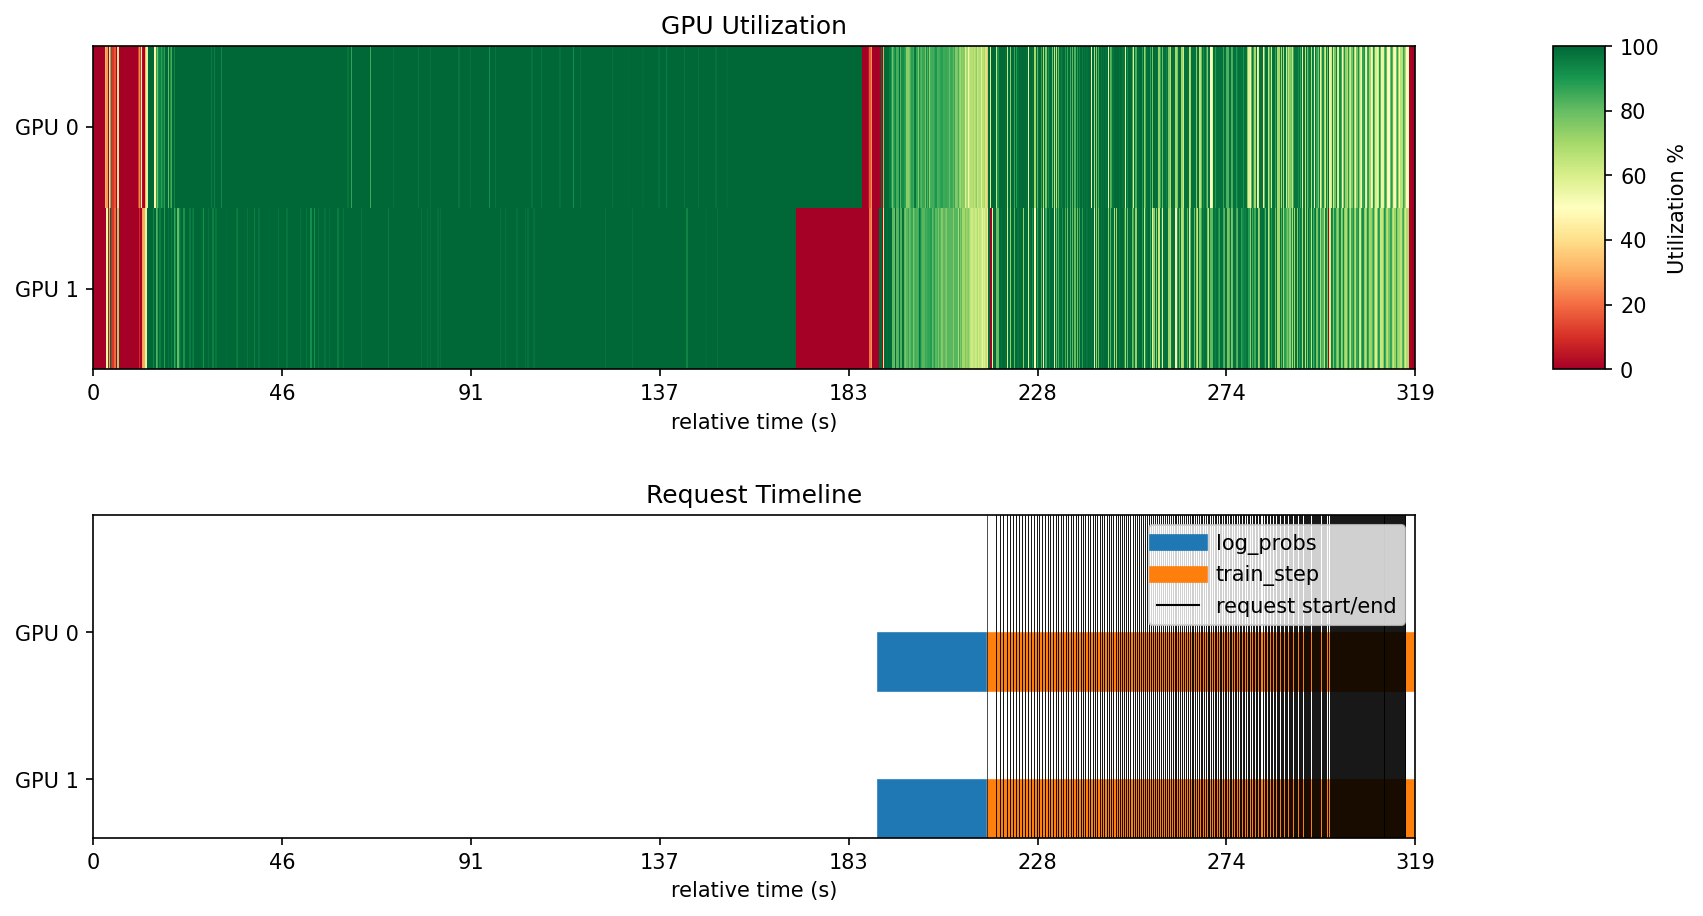
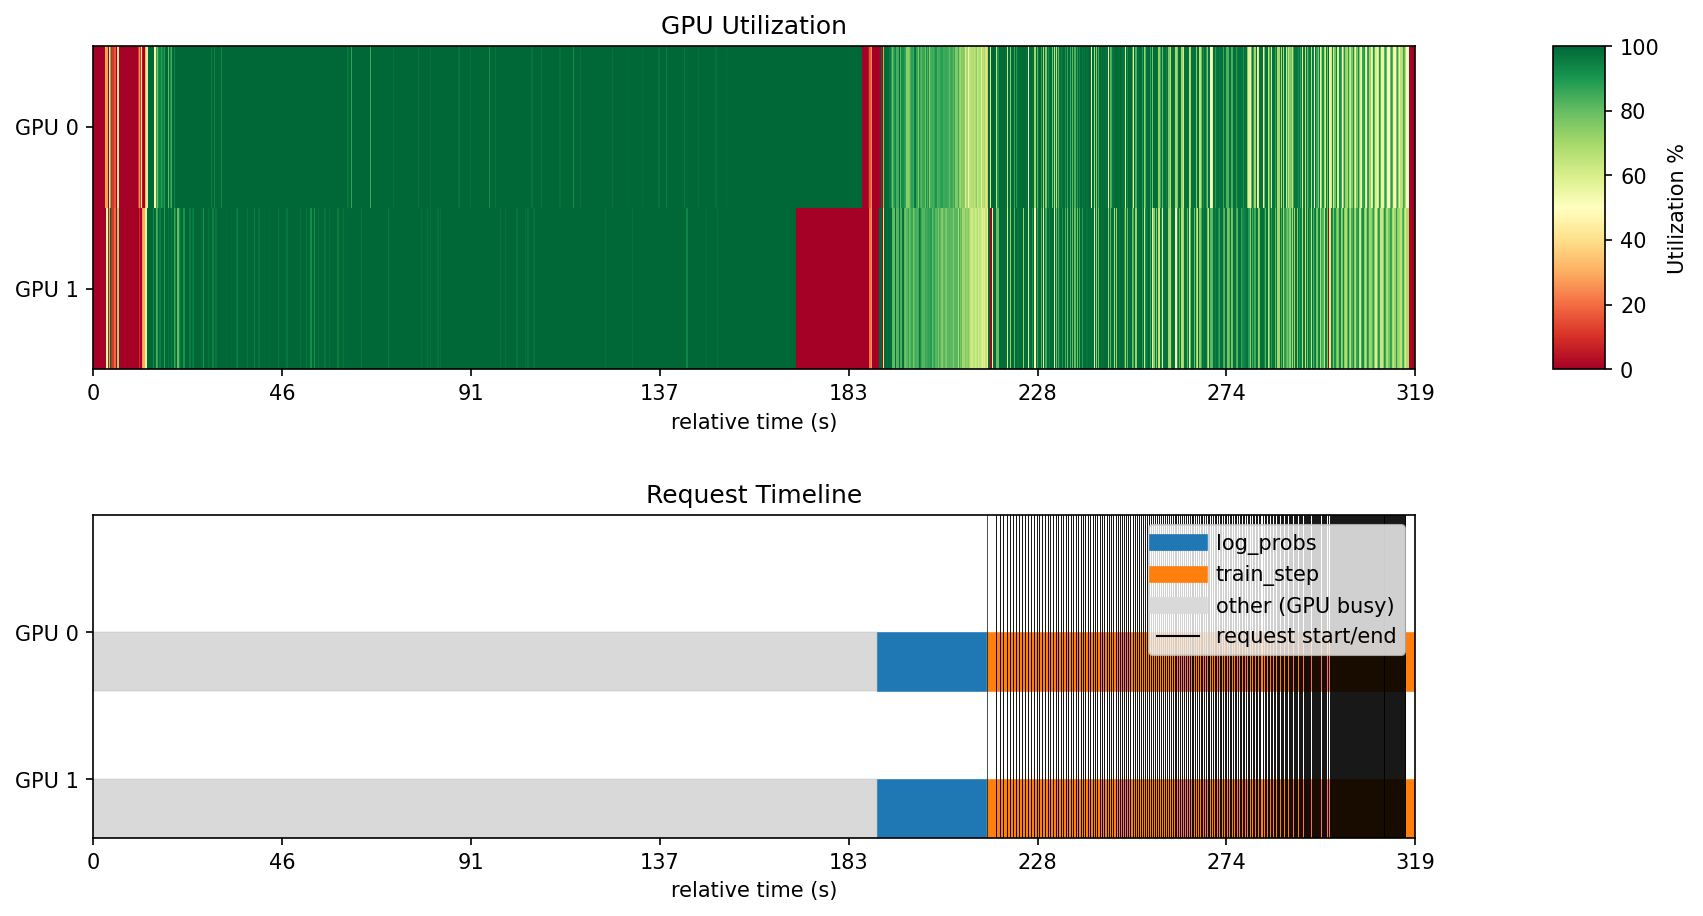
update profile

Changed region(s): [[0.0311, 0.6725, 0.5291, 0.7642], [0.0311, 0.8253, 0.5291, 0.917], [0.6536, 0.6419, 0.8403, 0.7336]]

diff --git a/plot_gpu_profile.py b/plot_gpu_profile.py
@@ -27,7 +27,7 @@ _DEFAULT_LOG_DIR = _REPO_ROOT / "log"
 
 
 def load_profile_record(jsonl_path: Path):
-    """Load the first record that has both utilization samples and request times."""
+    """Load the first record that has utilization samples and (optionally) request times. Rollout-only records have utilization but no request_times."""
     records = []
     with open(jsonl_path) as f:
         for line in f:
@@ -42,12 +42,12 @@ def load_profile_record(jsonl_path: Path):
         samples = rec["gpu_profile/gpu_utilization_samples"]
         if not samples:
             continue
-        # Find request_times for any GPU
+        # Require request_times unless this is a rollout-window-only record
         gpu_request_keys = [k for k in rec if re.match(r"gpu_profile/gpu\d+_request_times", k)]
-        if not gpu_request_keys:
+        if not gpu_request_keys and not rec.get("gpu_profile/rollout_window_only"):
             continue
         return rec
-    raise ValueError(f"No record with gpu_utilization_samples and gpu*_request_times in {jsonl_path}")
+    raise ValueError(f"No record with gpu_utilization_samples (and gpu*_request_times or rollout_window_only) in {jsonl_path}")
 
 
 def get_num_gpus(rec: dict) -> int:
@@ -125,12 +125,79 @@ EVENT_CATEGORIES = [
     ("unified_times", "unified", "tab:green"),
 ]
 
+OTHER_LABEL = "other (GPU busy)"
+OTHER_COLOR = (0.85, 0.85, 0.85)  # light gray
+
+
+def _merge_intervals(intervals: list[tuple[float, float]]) -> list[tuple[float, float]]:
+    """Merge overlapping (start, end) intervals."""
+    if not intervals:
+        return []
+    sorted_i = sorted(intervals, key=lambda x: x[0])
+    merged = [list(sorted_i[0])]
+    for s, e in sorted_i[1:]:
+        if s <= merged[-1][1]:
+            merged[-1][1] = max(merged[-1][1], e)
+        else:
+            merged.append([s, e])
+    return [tuple(m) for m in merged]
+
+
+def _gaps_in_range(merged: list[tuple[float, float]], x_min: float, x_max: float) -> list[tuple[float, float]]:
+    """Return (start, end) gaps inside [x_min, x_max] not covered by merged intervals."""
+    out = []
+    current = x_min
+    for s, e in merged:
+        if e <= current:
+            continue
+        if s > current:
+            out.append((current, min(s, x_max)))
+        current = max(current, e)
+        if current >= x_max:
+            break
+    if current < x_max:
+        out.append((current, x_max))
+    return out
+
 
 def draw_request_timeline_ax(rec: dict, t0: float, ax: plt.Axes, x_range: tuple[float, float] | None) -> None:
-    """Draw request timeline on given axes. Uses x_range if provided. Draws all event categories (ref_log_probs, log_probs, train_step) with different colors."""
+    """Draw request timeline on given axes. Uses x_range if provided. Draws all event categories (ref_log_probs, log_probs, train_step) with different colors. Fills time not attributed to any event as 'other (GPU busy)' when GPU utilization is present."""
     num_gpus = get_num_gpus(rec)
     if num_gpus == 0:
         return
+
+    x_min, x_max = (0.0, 0.0)
+    if x_range is not None:
+        x_min, x_max = x_range
+
+    # Per-GPU: collect all known event intervals (relative time)
+    intervals_per_gpu: list[list[tuple[float, float]]] = [[] for _ in range(num_gpus)]
+    for key_suffix, _label, _color in EVENT_CATEGORIES:
+        for gpu in range(num_gpus):
+            key = f"gpu_profile/gpu{gpu}_{key_suffix}"
+            if key not in rec:
+                continue
+            for start, end in rec[key]:
+                start_rel = normalize_time(start, t0)
+                end_rel = normalize_time(end, t0)
+                intervals_per_gpu[gpu].append((start_rel, end_rel))
+
+    # Draw "other" (unaccounted) segments first so they sit behind the labeled events
+    legend_used_other = False
+    if x_range is not None and x_max > x_min:
+        bar_height = 0.4
+        for gpu in range(num_gpus):
+            merged = _merge_intervals(intervals_per_gpu[gpu])
+            gaps = _gaps_in_range(merged, x_min, x_max)
+            y_center = num_gpus - 1 - gpu
+            for start_rel, end_rel in gaps:
+                if end_rel - start_rel < 0.01:
+                    continue
+                legend_used_other = True
+                ax.barh(
+                    y_center, end_rel - start_rel, left=start_rel, height=bar_height,
+                    color=OTHER_COLOR, edgecolor=(0.7, 0.7, 0.7), linewidth=0.2,
+                )
 
     all_ends = []
     legend_used = set()
@@ -182,6 +249,10 @@ def draw_request_timeline_ax(rec: dict, t0: float, ax: plt.Axes, x_range: tuple[
         for (key_suffix, label, color) in EVENT_CATEGORIES
         if (label, color) in legend_used
     ]
+    if legend_used_other:
+        legend_elements.append(
+            Line2D([0], [0], color=OTHER_COLOR, linewidth=8, label=OTHER_LABEL),
+        )
     legend_elements.append(
         Line2D([0], [0], color="black", linewidth=1, linestyle="-", label="request start/end"),
     )

diff --git a/slime/utils/profiler.py b/slime/utils/profiler.py
@@ -173,8 +173,10 @@ def log_request_profile_metrics(
     request_times_per_rank: list[list[RequestTime]] | None = None,
     gpu_utilization_samples: list[tuple[float, list[int]]] | None = None,
     event_times_per_rank_by_type: dict[str, list[list[RequestTime]]] | None = None,
+    rollout_time_window: tuple[float, float] | None = None,
 ) -> None:
-    """Log request-profile metrics: per-request (start_time, end_time) per GPU, request counts, optional GPU utilization, and optional per-event-type times (e.g. log_probs, ref_log_probs)."""
+    """Log request-profile metrics: per-request (start_time, end_time) per GPU, request counts, optional GPU utilization, and optional per-event-type times (e.g. log_probs, ref_log_probs).
+    When rollout_time_window (start_sec, end_sec) is provided, only GPU utilization samples within that window are included (for SGLang rollout-only profiling)."""
     from slime.utils import logging_utils
 
     step_key = "rollout/step"
@@ -182,6 +184,8 @@ def log_request_profile_metrics(
         "gpu_profile/interval_ms": 200,
         step_key: step_key_value,
     }
+    if rollout_time_window is not None:
+        log_dict["gpu_profile/rollout_window_only"] = True
     if request_count_per_rank is not None:
         for rank, count in enumerate(request_count_per_rank):
             log_dict[f"request_profile/requests_gpu{rank}"] = count
@@ -201,10 +205,14 @@ def log_request_profile_metrics(
                 if times:
                     log_dict[f"gpu_profile/gpu{rank}_{key_suffix}"] = [[s, e] for s, e in times]
     if gpu_utilization_samples is not None and gpu_utilization_samples:
-        # Each entry: (timestamp_sec, [util_pct for gpu0, gpu1, ...])
-        log_dict["gpu_profile/gpu_utilization_samples"] = [[t, utils] for t, utils in gpu_utilization_samples]
-        log_dict["gpu_profile/gpu_utilization_start_sec"] = gpu_utilization_samples[0][0]
-        log_dict["gpu_profile/gpu_utilization_end_sec"] = gpu_utilization_samples[-1][0]
+        if rollout_time_window is not None:
+            t_start, t_end = rollout_time_window
+            gpu_utilization_samples = [(t, utils) for t, utils in gpu_utilization_samples if t_start <= t <= t_end]
+        if gpu_utilization_samples:
+            # Each entry: (timestamp_sec, [util_pct per gpu0, gpu1, ...])
+            log_dict["gpu_profile/gpu_utilization_samples"] = [[t, utils] for t, utils in gpu_utilization_samples]
+            log_dict["gpu_profile/gpu_utilization_start_sec"] = gpu_utilization_samples[0][0]
+            log_dict["gpu_profile/gpu_utilization_end_sec"] = gpu_utilization_samples[-1][0]
 
     logging_utils.log(args, log_dict, step_key=step_key)
 
@@ -231,11 +239,13 @@ def run_gpu_profile_report(
     request_times_per_rank: list[list[RequestTime]] | None = None,
     gpu_utilization_samples: list[tuple[float, list[int]]] | None = None,
     event_times_per_rank_by_type: dict[str, list[list[RequestTime]]] | None = None,
+    rollout_time_window: tuple[float, float] | None = None,
 ) -> None:
     """
     Log gpu-profile and request-profile metrics at report cadence.
     Call from rank 0. Per-request (start_sec, end_sec) are recorded per step; GPU utilization sampled every 200 ms.
     event_times_per_rank_by_type: optional dict of event_type -> list of (start, end) per rank for extra categories (e.g. log_probs, ref_log_probs).
+    rollout_time_window: when set (e.g. for --gpu-profile-rollout-only), only GPU utilization within (start_sec, end_sec) is logged; training request/event times are omitted.
     """
     log_request_profile_metrics(
         args,
@@ -245,6 +255,7 @@ def run_gpu_profile_report(
         request_times_per_rank,
         gpu_utilization_samples,
         event_times_per_rank_by_type=event_times_per_rank_by_type,
+        rollout_time_window=rollout_time_window,
     )
 
 

diff --git a/slime/ray/rollout.py b/slime/ray/rollout.py
@@ -133,10 +133,12 @@ class RolloutManager:
         self.health_monitoring_resume()
         if self.args.ci_test and self.args.use_fault_tolerance and rollout_id >= 2:
             self._try_ci_fault_injection()
-        data, metrics = self._get_rollout_data(rollout_id=rollout_id)
+        data, metrics, rollout_time_window = self._get_rollout_data(rollout_id=rollout_id)
         self._save_debug_rollout_data(data, rollout_id=rollout_id, evaluation=False)
         _log_rollout_data(rollout_id, self.args, data, metrics, time.time() - start_time)
         data = self._convert_samples_to_train_data(data)
+        if rollout_time_window is not None and getattr(self.args, "enable_gpu_profile", False):
+            data["gpu_profile_rollout_time_window"] = rollout_time_window
         return self._split_train_data_by_dp(data, self.train_parallel_config["dp_size"])
 
     def eval(self, rollout_id):
@@ -212,6 +214,7 @@ class RolloutManager:
         return ray.get([engine.check_weights.remote(action=action) for engine in self.rollout_engines])
 
     def _get_rollout_data(self, rollout_id):
+        rollout_time_window = None  # (start_sec, end_sec) for SGLang rollout only
         if self.args.load_debug_rollout_data:
             data = torch.load(
                 self.args.load_debug_rollout_data.format(rollout_id=rollout_id),
@@ -227,7 +230,10 @@ class RolloutManager:
                 )
             metrics = None
         else:
+            rollout_start_sec = time.time()
             data = call_rollout_fn(self.generate_rollout, self.args, rollout_id, self.data_source, evaluation=False)
+            rollout_end_sec = time.time()
+            rollout_time_window = (rollout_start_sec, rollout_end_sec)
             metrics = data.metrics
             data = data.samples
             # flatten the data if it is a list of lists
@@ -251,7 +257,7 @@ class RolloutManager:
                     logger.info(f"trim number of samples from {origin_data_length} to {trim_len}")
                 logger.info(f"Final collected {len(data)} samples from rollout to train")
 
-        return data, metrics
+        return data, metrics, rollout_time_window
 
     def _compute_dynamic_global_batch_size(self, num_samples: int) -> int:
         """Calculate dynamic global_batch_size to ensure only one training step.
@@ -446,6 +452,9 @@ class RolloutManager:
             # Pass dynamic global_batch_size to training side
             if hasattr(self, "_dynamic_global_batch_size"):
                 rollout_data["dynamic_global_batch_size"] = self._dynamic_global_batch_size
+            # Pass rollout time window for GPU profile rollout-only filtering
+            if "gpu_profile_rollout_time_window" in data:
+                rollout_data["gpu_profile_rollout_time_window"] = data["gpu_profile_rollout_time_window"]
             rollout_data_refs.append(Box(ray.put(rollout_data)))
         return rollout_data_refs
 

diff --git a/slime/utils/arguments.py b/slime/utils/arguments.py
@@ -1217,7 +1217,7 @@ def get_slime_extra_args_provider(add_custom_arguments=None):
                 "--enable-gpu-profile",
                 action="store_true",
                 default=False,
-                help="Enable GPU profile (per-step, per-worker latencies) and request-profile (request count per GPU).",
+                help="Enable GPU profile limited to SGLang rollout: utilization during rollout window and fine-grained rollout events (prefill/decode/unified).",
             )
             parser.add_argument(
                 "--gpu-profile-plot-steps",
@@ -1238,10 +1238,22 @@ def get_slime_extra_args_provider(add_custom_arguments=None):
                 help="Number of steps for gpu-profile heatmap (default: 20).",
             )
             parser.add_argument(
+                "--gpu-profile-rollout-events",
+                action="store_true",
+                default=True,
+                help="Record fine-grained rollout events (prefill/decode/unified per request) for the request timeline. Default True when --enable-gpu-profile. Implies --enable-inference-profile.",
+            )
+            parser.add_argument(
+                "--no-gpu-profile-rollout-events",
+                action="store_false",
+                dest="gpu_profile_rollout_events",
+                help="Disable fine-grained rollout event recording.",
+            )
+            parser.add_argument(
                 "--enable-inference-profile",
                 action="store_true",
                 default=False,
-                help="Record SGLang inference events (prefill/decode/unified) to inference_profile.jsonl when the engine returns timing in meta_info (e.g. first_token_time, total_time or prefill_*_sec, decode_*_sec).",
+                help="Record SGLang inference events (prefill/decode/unified) to inference_profile.jsonl when the engine returns timing in meta_info. Auto-enabled when --enable-gpu-profile and --gpu-profile-rollout-events (default).",
             )
             return parser
 
@@ -1764,6 +1776,11 @@ def slime_validate_args(args):
     assert not (args.debug_rollout_only and args.debug_train_only), (
         "debug_rollout_only and debug_train_only cannot be set at the same time, " "please set only one of them."
     )
+
+    # GPU profile: enable fine-grained rollout events (inference profile)
+    if getattr(args, "enable_gpu_profile", False):
+        if getattr(args, "gpu_profile_rollout_events", True):
+            args.enable_inference_profile = True
 
     # always true on offload for colocate at the moment.
     if args.colocate:

diff --git a/slime/backends/fsdp_utils/actor.py b/slime/backends/fsdp_utils/actor.py
@@ -614,6 +614,13 @@ class FSDPTrainRayActor(TrainRayActor):
                         if self._gpu_util_collector is not None
                         else None
                     )
+                    rollout_time_window = rollout_data.get("gpu_profile_rollout_time_window")
+                    if rollout_time_window is not None:
+                        # Only log GPU utilization during SGLang rollout window; omit training request/event times
+                        request_count_per_rank = None
+                        latency_per_rank = None
+                        request_times_per_rank = None
+                        event_times_per_rank_by_type = None
                     run_gpu_profile_report(
                         self._gpu_profiler,
                         self.args,
@@ -626,6 +633,7 @@ class FSDPTrainRayActor(TrainRayActor):
                         request_times_per_rank=request_times_per_rank,
                         gpu_utilization_samples=gpu_util_samples,
                         event_times_per_rank_by_type=event_times_per_rank_by_type or None,
+                        rollout_time_window=rollout_time_window,
                     )
                 self._gpu_profiler.clear()
 
